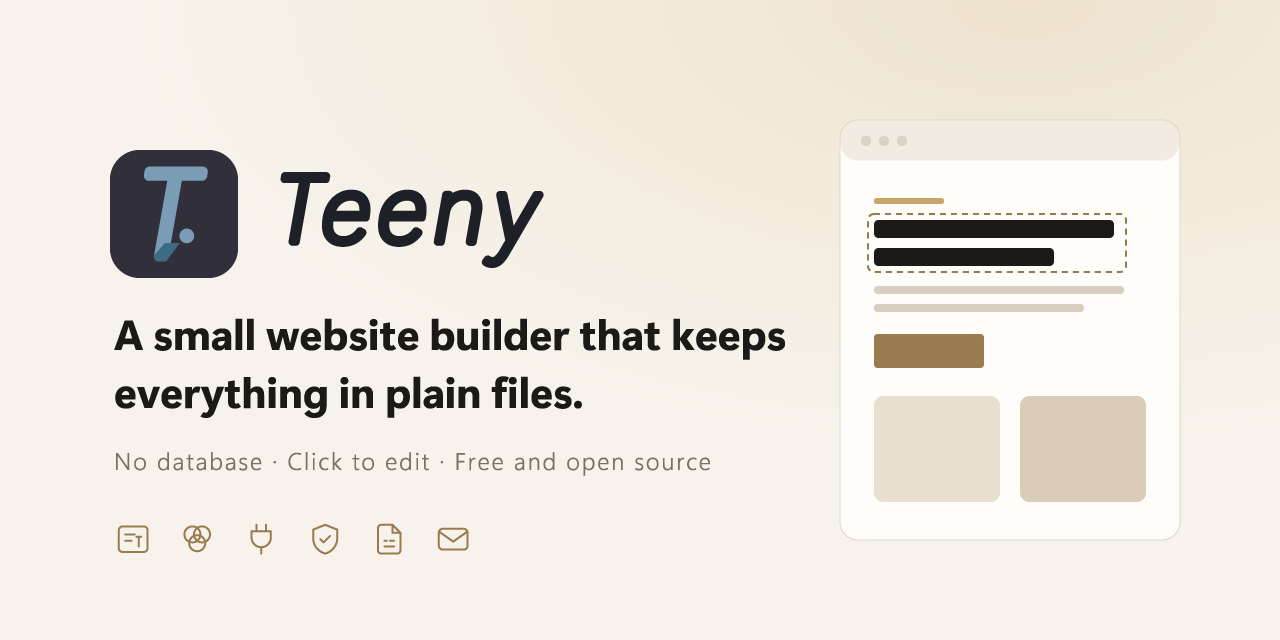
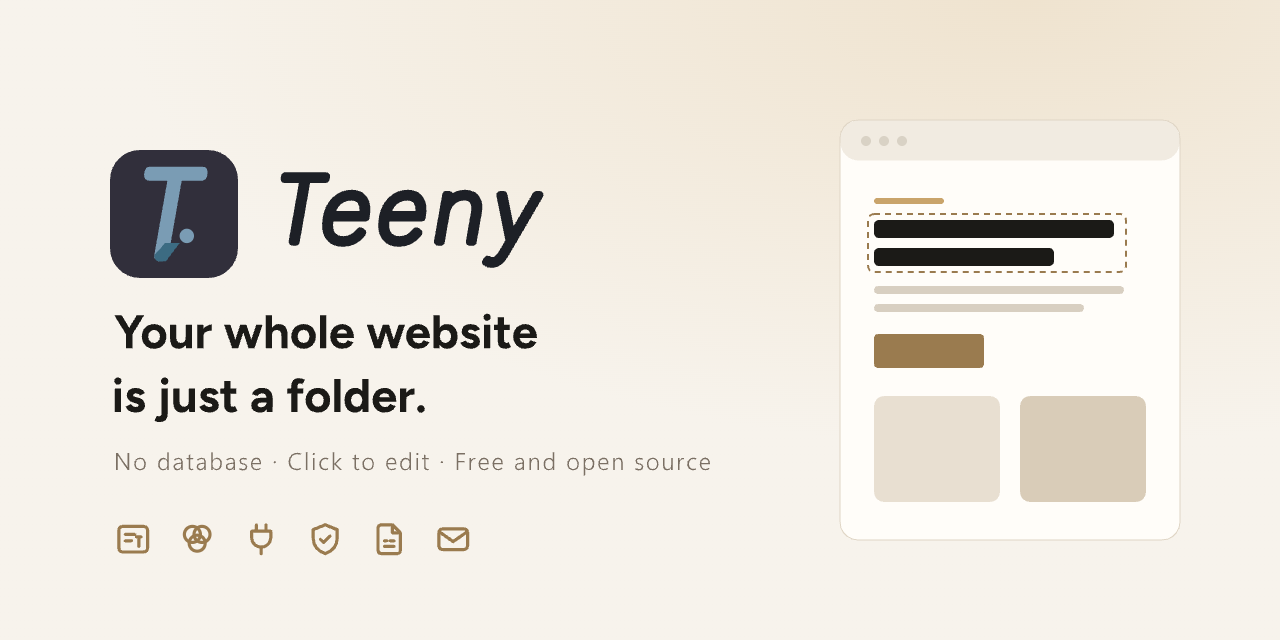
New social preview; taglines at the end of DESCRIPTIONS.md

diff --git a/docs/DESCRIPTIONS.md b/docs/DESCRIPTIONS.md
@@ -2,23 +2,6 @@
 
 ---
 
-## Tagline
-
-Your whole website is just a folder.
-
-Other options:
-
-- Upload a folder. Click to edit. Done.
-- No database. No setup. Just your website.
-- Just files. Just websites.
-- Plain-file publishing, simplified.
-- Tiny CMS. Zero database.
-- Teeny footprint. Full control.
-- Big enough for your site. Small enough to zip.
-- Your website, in plain files.
-- The website builder that fits in a folder.
-- All the website. None of the bloat.
-
 ## One line
 
 A simple website builder anyone can use. No database, dead easy setup, and your whole site is just a folder.
@@ -84,3 +67,19 @@ Teeny CMS is free and open source under the Apache License 2.0. Use it for your 
 - Teeny is a website builder where your whole site is just a folder. No database, dead easy setup. Click any text to edit it.
 - Built a site on the cheapest shared hosting? Teeny needs only PHP. No database, no migrations, and updates are just new files.
 - Back up your website by zipping a folder. Teeny keeps everything in plain files, and visitors get fast, ready-made pages.
+
+---
+
+## Taglines
+
+- Your whole website is just a folder.
+- Upload a folder. Click to edit. Done.
+- No database. No setup. Just your website.
+- Just files. Just websites.
+- Plain-file publishing, simplified.
+- Tiny CMS. Zero database.
+- Teeny footprint. Full control.
+- Big enough for your site. Small enough to zip.
+- Your website, in plain files.
+- The website builder that fits in a folder.
+- All the website. None of the bloat.
